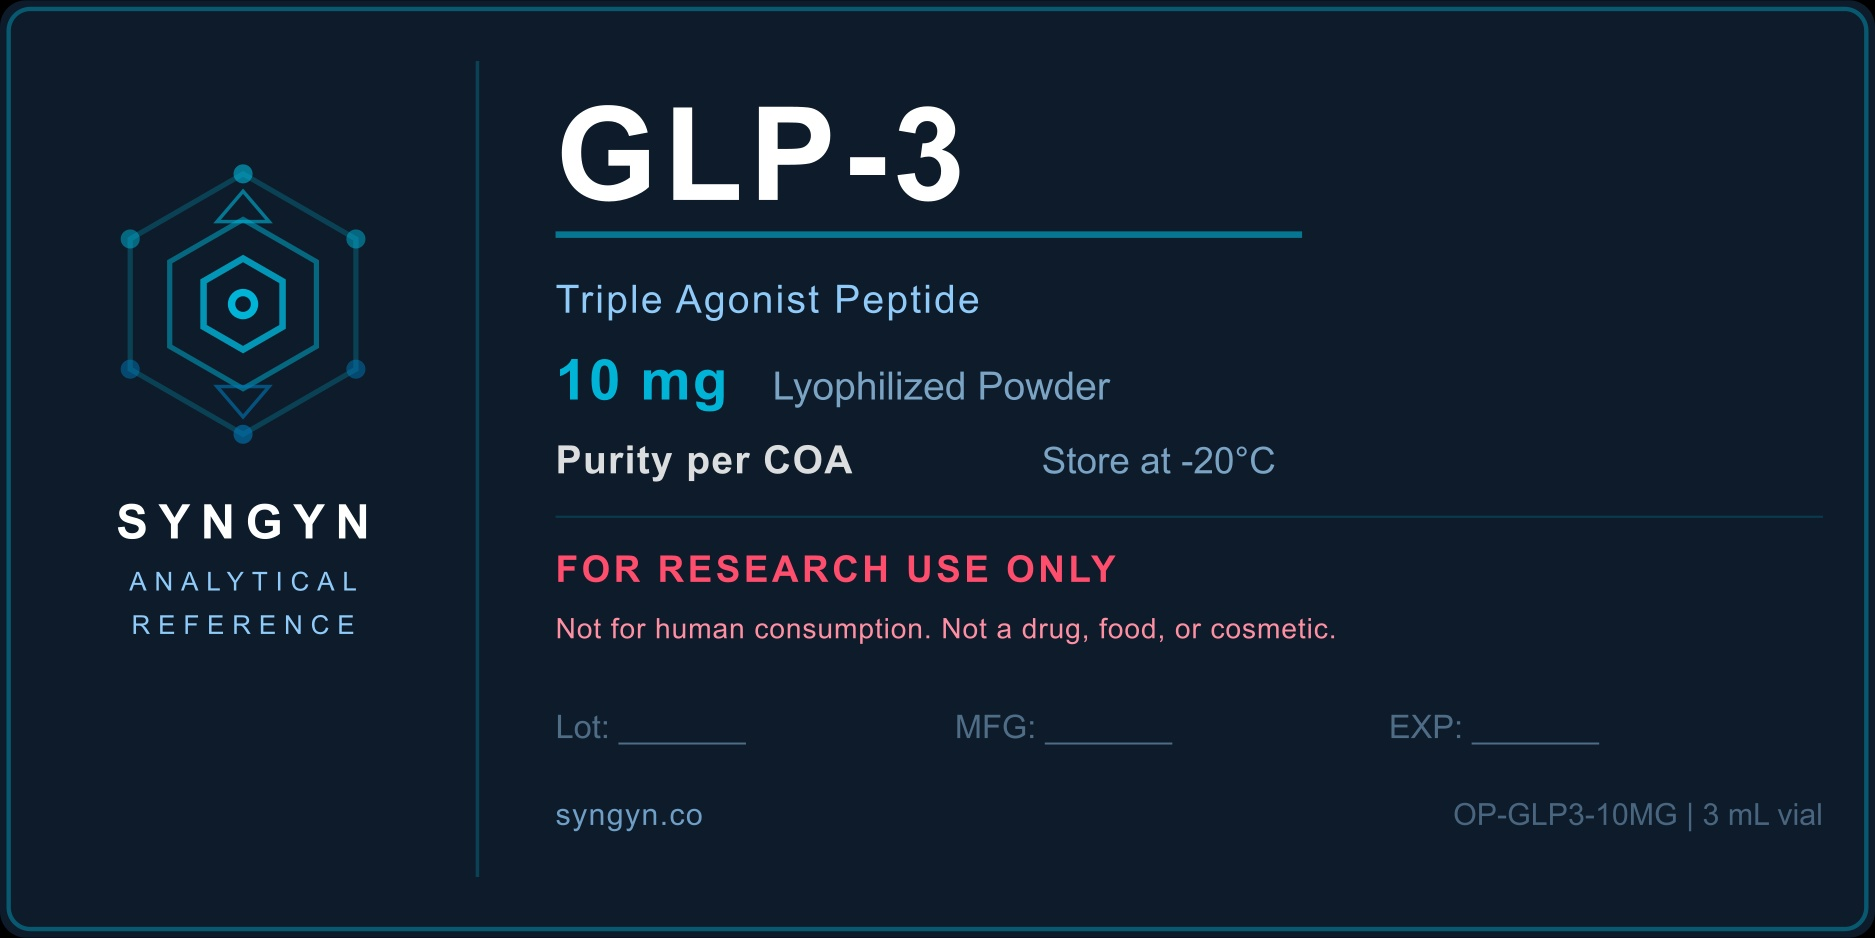
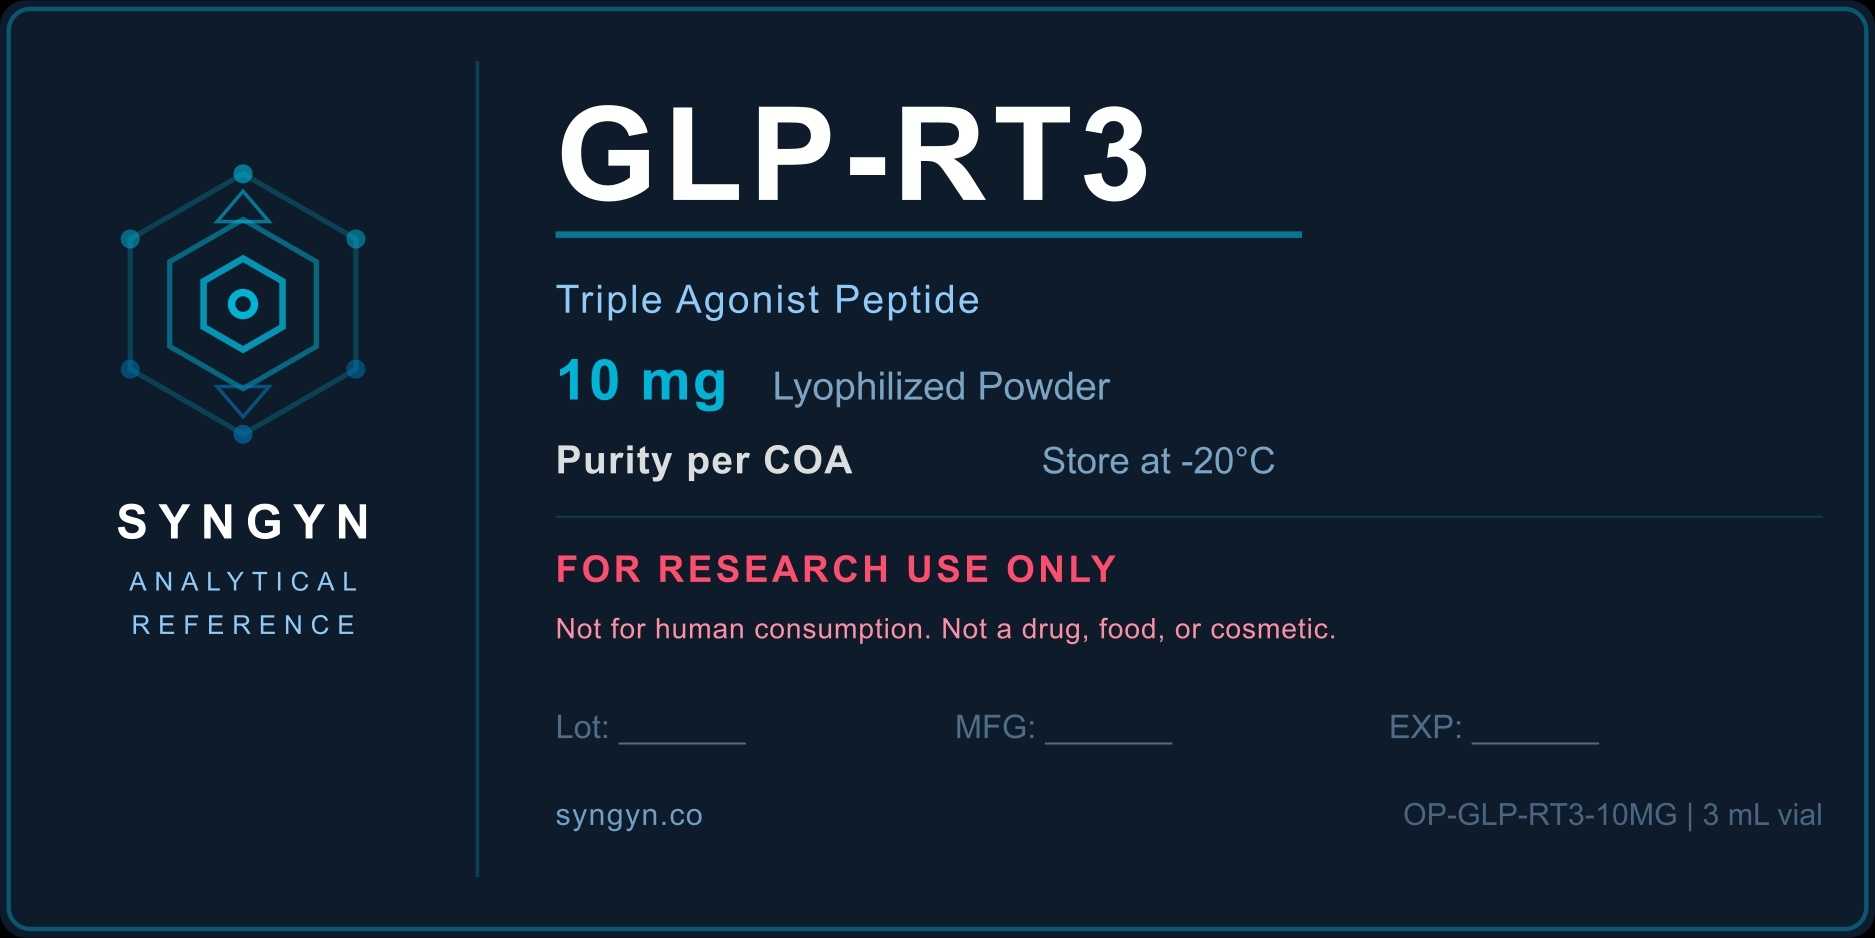
Labels: sync GLP-3 -> GLP-RT3 name + SKU to match storefront
Only product renamed in the Syngyn rebrand. Diffed the generator against the
live catalog — all other names/SKUs already matched. Regenerated the two GLP-RT3
labels.

Changed region(s): [[0.464, 0.0928, 0.6187, 0.2164], [0.7424, 0.8348, 0.8352, 0.8966]]

diff --git a/labels/generate-color-labels.js b/labels/generate-color-labels.js
@@ -6,8 +6,8 @@ const labelsDir = path.join(__dirname);
 
 const peptides = [
   { file: 'glp-1-10mg', name: 'GLP-1', desc: 'GLP-1 Receptor Agonist', dosage: '10 mg', sku: 'OP-GLP1-10MG' },
-  { file: 'glp-3-10mg', name: 'GLP-3', desc: 'Triple Agonist Peptide', dosage: '10 mg', sku: 'OP-GLP3-10MG' },
-  { file: 'glp-3-20mg', name: 'GLP-3', desc: 'Triple Agonist Peptide', dosage: '20 mg', sku: 'OP-GLP3-20MG' },
+  { file: 'glp-3-10mg', name: 'GLP-RT3', desc: 'Triple Agonist Peptide', dosage: '10 mg', sku: 'OP-GLP-RT3-10MG' },
+  { file: 'glp-3-20mg', name: 'GLP-RT3', desc: 'Triple Agonist Peptide', dosage: '20 mg', sku: 'OP-GLP-RT3-20MG' },
   { file: 'bpc-157-5mg', name: 'BPC-157', desc: 'Body Protection Compound', dosage: '5 mg', sku: 'OP-BPC-5MG' },
   { file: 'bpc-157-10mg', name: 'BPC-157', desc: 'Body Protection Compound', dosage: '10 mg', sku: 'OP-BPC-10MG' },
   { file: 'tb-500-5mg', name: 'TB-500', desc: 'Thymosin Beta-4 Fragment', dosage: '5 mg', sku: 'OP-TB500-5MG' },